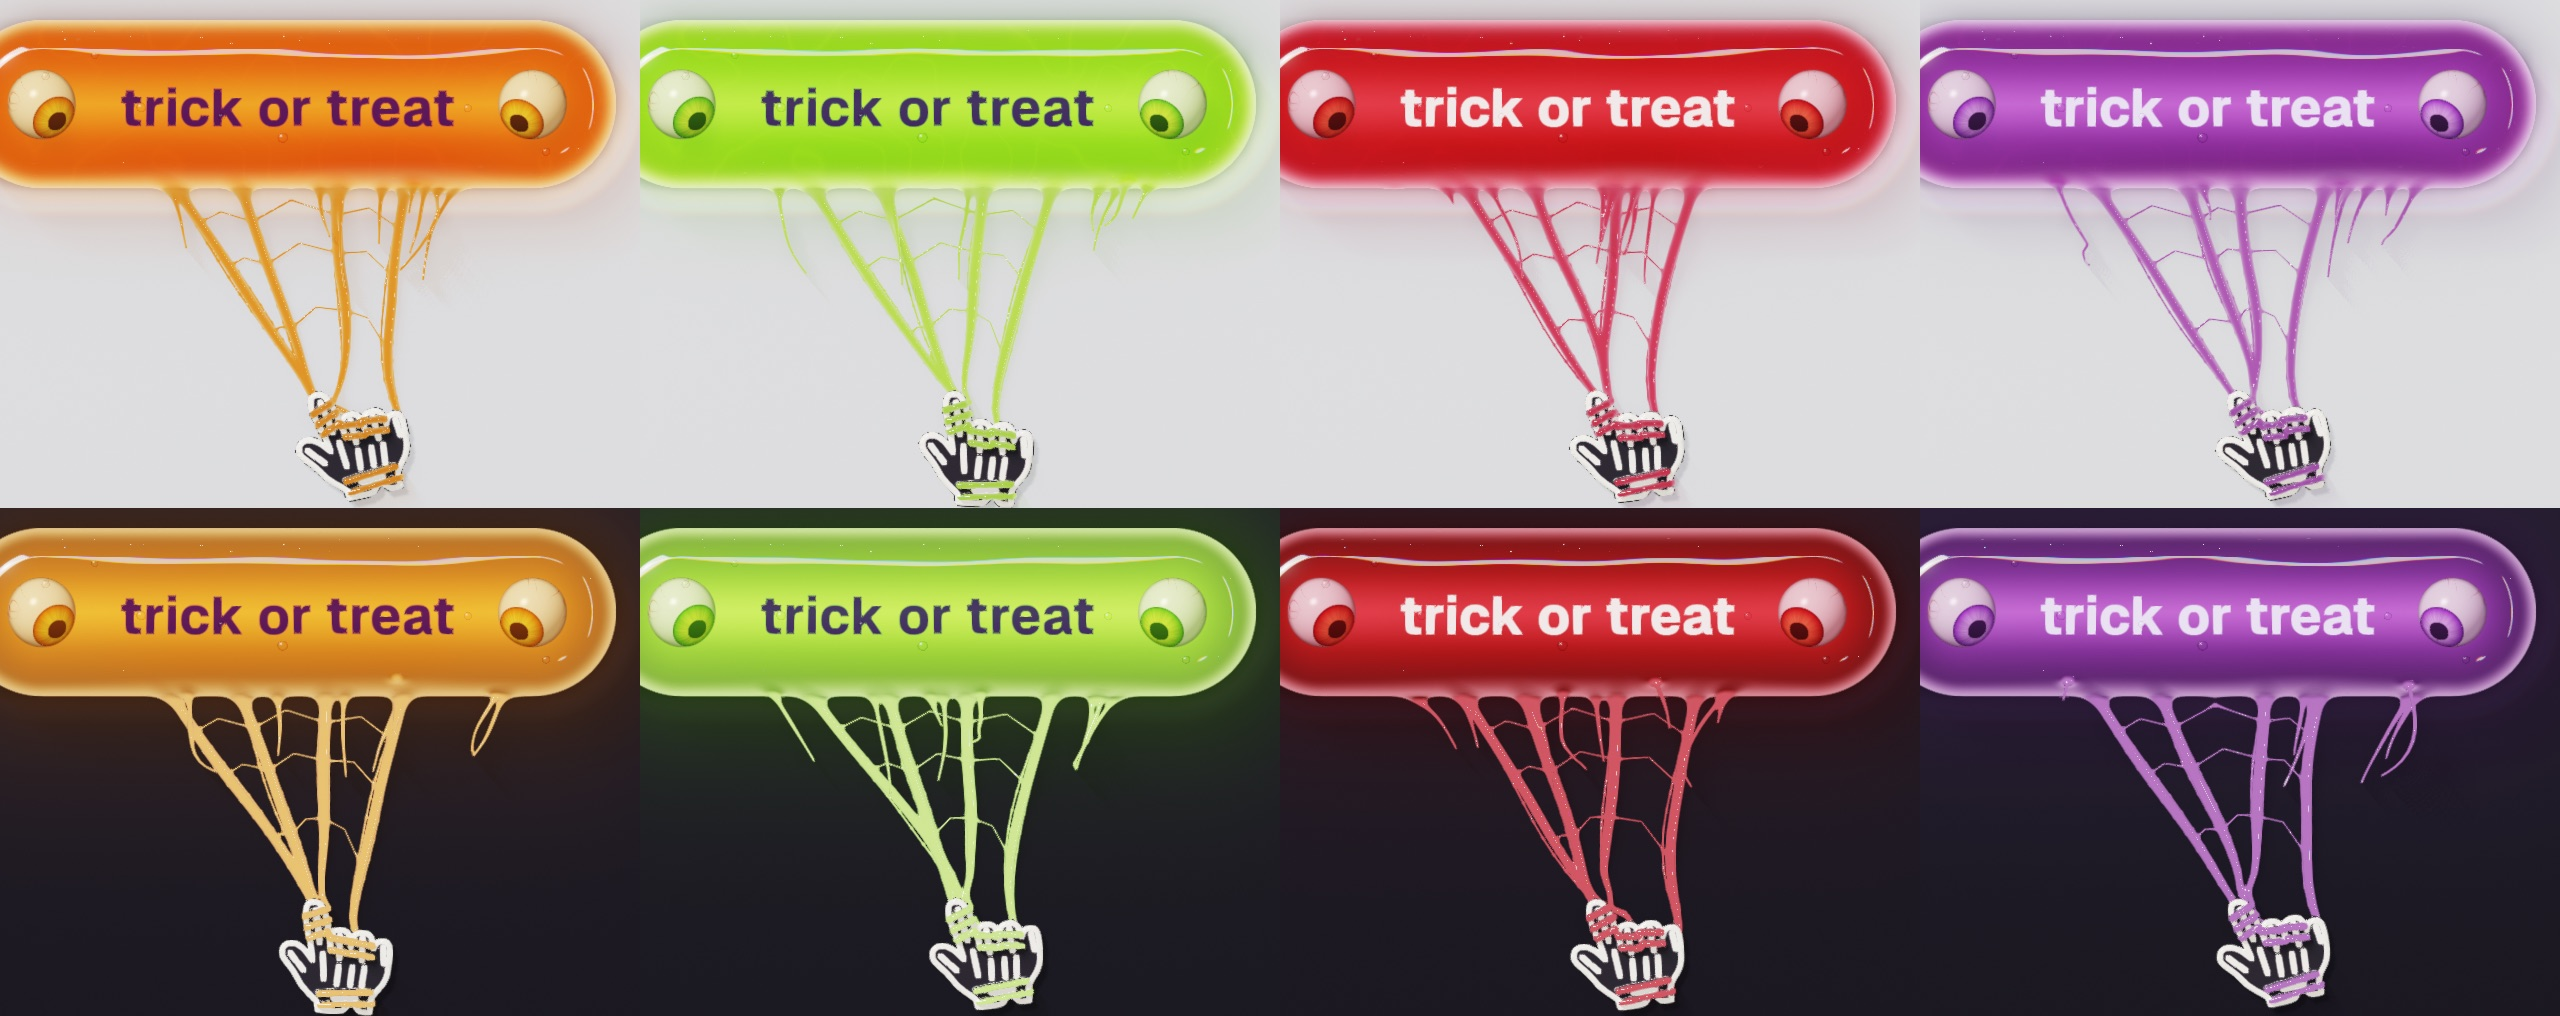
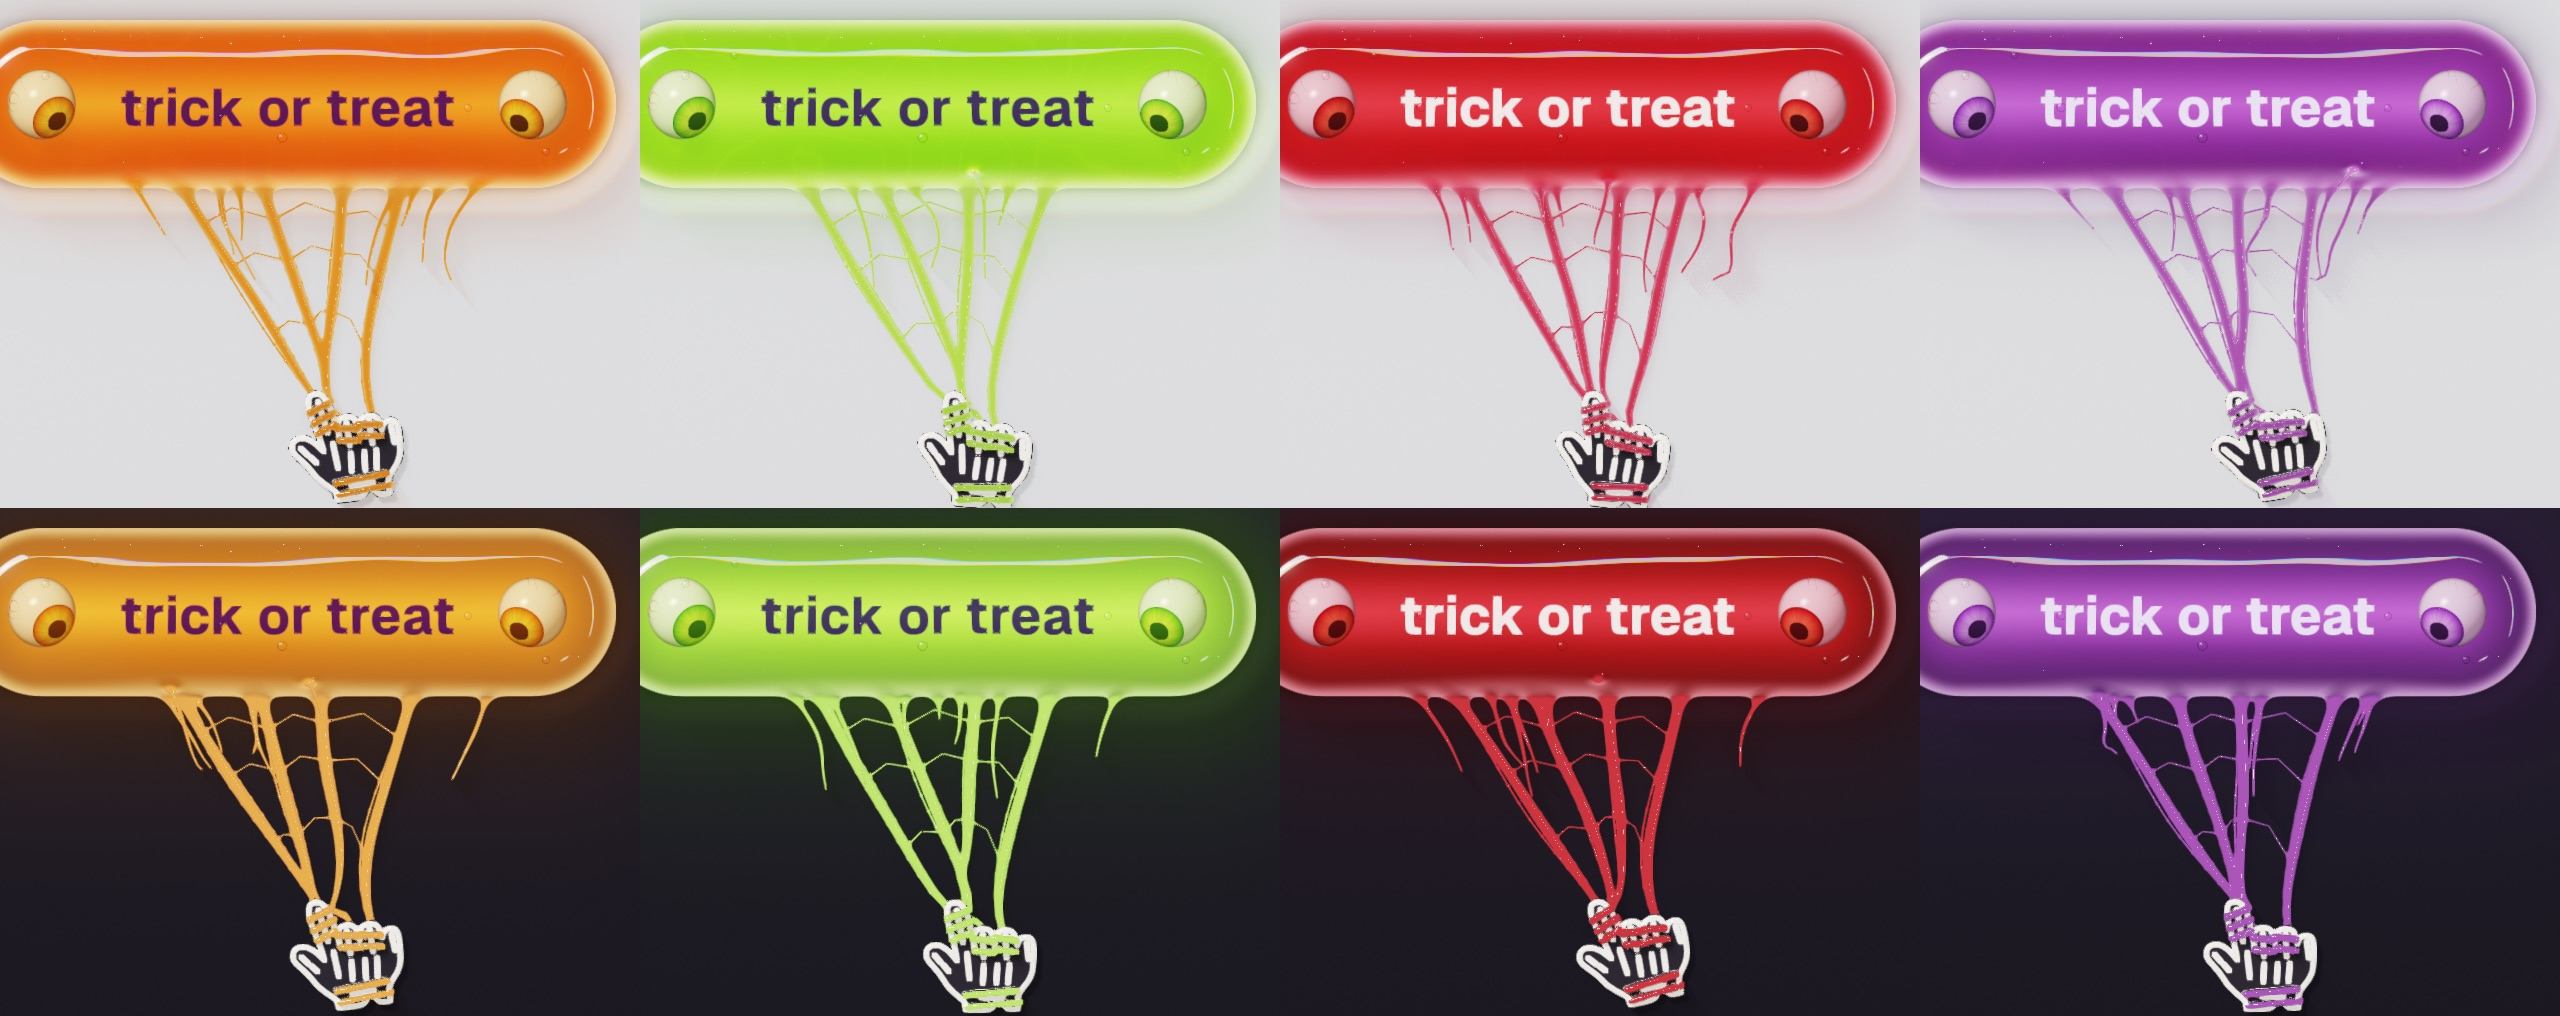
Night strings glow in each flavour's own colour
Strings carry more of the jelly's glow and less white light, so at night
Blood's strings are a deep red and Plum's a saturated violet instead of
salmon and lilac. README links the live site.

diff --git a/index.html b/index.html
@@ -1031,7 +1031,7 @@ vec3 shadeJelly(vec2 p, vec4 g) {
 
   // at night there is little floor light to see through, so daylight scattered inside the body carries the colour
   float paleDye = smoothstep(0.08, 0.5, dot(uDye, vec3(0.3, 0.59, 0.11)));
-  col += exp(-uSig * uDens * T * 0.7) * SUN * 0.2 * (1.0 - exp(-T * 0.09)) * uDark * (1.0 - 0.85 * paleDye) * mix(1.0, 2.2, strand);
+  col += exp(-uSig * uDens * T * 0.7) * SUN * 0.2 * (1.0 - exp(-T * 0.09)) * uDark * (1.0 - 0.85 * paleDye) * mix(1.0, 1.4, strand);
 
   // glow from inside the mass, like a candle in a carved pumpkin: deepest at the core, tinted by the jelly
   // it shines up through
@@ -1074,7 +1074,7 @@ vec3 shadeJelly(vec2 p, vec4 g) {
 
   // strings carry the jelly's light along them like fibres, so at night they stay luminous in the flavour's colour
   // instead of showing the dark floor through their thin bodies
-  col += exp(-uSig * uDens * 11.0) * (SUN * 0.2 + uGlowC * uGlow * 0.45) * strand * (0.15 + 0.85 * uDark);
+  col += exp(-uSig * uDens * 16.0) * (SUN * 0.12 + uGlowC * uGlow * 0.6) * strand * (0.15 + 0.85 * uDark);
 
   // edge bloom: light piped through the thin rim comes out glowing in the jelly's own colour, so the edge of the
   // button is a luminous band of jelly rather than an outline or a pale halo

diff --git a/README.md b/README.md
@@ -2,7 +2,7 @@
 
 A Halloween button cast in gelatin. A plump pill of pumpkin jelly with **trick or treat** suspended inside it and a gummy eyeball floating in each end. The eyes doze until your pointer comes near, then open and follow it. Jelly strings reach out and wrap your skeleton-gloved hand. Press and it squashes, the eyes go wide, and it bounces back taller before it wobbles to a stop.
 
-**[Live →](LIVE_URL)** · [Demo video (MP4)](media/demo.mp4)
+**[Live → jelly-button.vercel.app](https://jelly-button.vercel.app)** · [Demo video (MP4)](media/demo.mp4)
 
 ![Jelly strings reaching for the pointer while both eyes watch it](media/reach.png)
 
